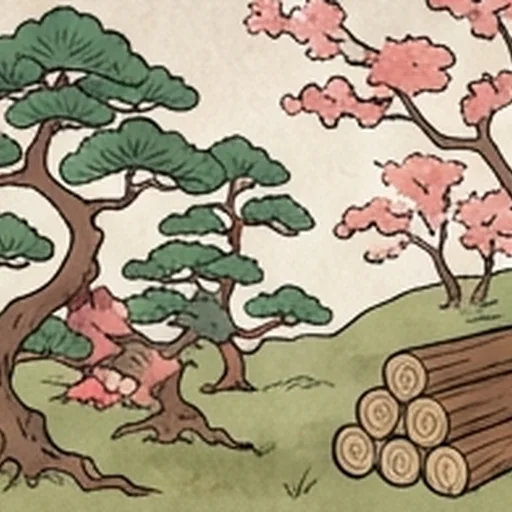
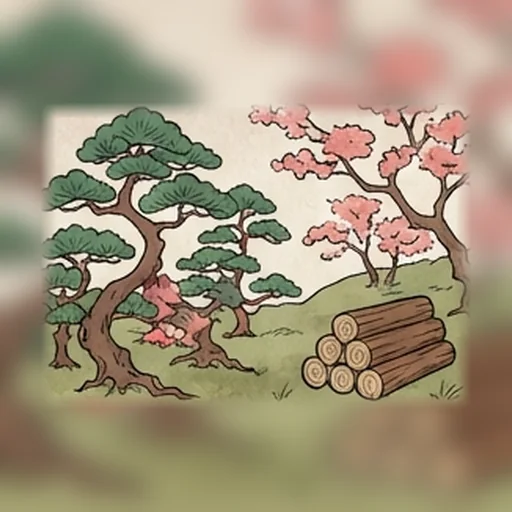
Big Mom and Wano lands zoomed out, and one number disc for the painted crews
The Big Mom and Wano lands now show the whole painting inside the hex,
over a soft copy of itself, instead of a crop that lost the trees and the
ore. The circles painted on the Big Mom lands are taken out. Big Mom,
Wano and the Navy share Wano's paper crest disc and brush-serif numbers.
Big Mom's ship sails right of the cake island; Wano has no ship header,
only its full scene behind the page.

Claude-Session: https://claude.ai/code/session_01Sfzcs5BDfJYScEUTSDvCQ5

diff --git a/apps/web/src/theme/boards/bigmom.tsx b/apps/web/src/theme/boards/bigmom.tsx
@@ -3,6 +3,7 @@ import type { Theme, ThemePieces } from '../clean.ts';
 import { resourceIcon } from './icons.tsx';
 import { WONDER_ICONS } from './iconSets.ts';
 import { artFor } from './art.ts';
+import { crestRest, crestToken } from './crest.tsx';
 import { BASE, CX, H, r1, seaTile, skin, W, type BaseType } from './kit.tsx';
 
 /**
@@ -270,31 +271,7 @@ function pieces(k: Ink): ThemePieces {
         </g>
       );
     },
-    // A macaron from above: a frilled pink shell, cream in the middle for the number.
-    token: ({ x, y, r }) => {
-      const n = 14;
-      const r0 = r * 0.9;
-      const pts = Array.from({ length: n }, (_, i) => {
-        const a = (2 * Math.PI * i) / n;
-        return [x + r0 * Math.cos(a), y + r0 * Math.sin(a)] as const;
-      });
-      const bump = r1(r0 * Math.sin(Math.PI / n) * 1.15);
-      const d =
-        `M${r1(pts[0]![0])},${r1(pts[0]![1])} ` +
-        pts
-          .map((_, i) => {
-            const [px, py] = pts[(i + 1) % n]!;
-            return `A${bump},${bump} 0 0 1 ${r1(px)},${r1(py)}`;
-          })
-          .join(' ') +
-        ' Z';
-      return (
-        <>
-          <path className="token-face" d={d} fill={k.shell} stroke={k.ink} strokeWidth={1.5} />
-          <circle cx={x} cy={y} r={r * 0.74} fill={k.icing} stroke={k.ink} strokeWidth={1} />
-        </>
-      );
-    },
+    token: crestToken,
   };
 }
 
@@ -311,9 +288,7 @@ function bigMomSkin(id: string, name: string, k: Ink): Theme {
     seaPattern: sea(k),
     paintings: artFor('bigmom'),
     rest: {
-      token: k.icing,
-      tokenText: k.ink,
-      tokenHot: '#b0174f',
+      ...crestRest,
       outline: k.ink,
       robber: k.silver,
       landStroke: k.ink,
@@ -322,7 +297,6 @@ function bigMomSkin(id: string, name: string, k: Ink): Theme {
       harborFace: k.icing,
       harborText: k.ink,
       pieceEffect: 'lift',
-      tokenFont: "'Chewy', 'Fredoka', system-ui, sans-serif",
       pieces: pieces(k),
       boardBackground: k.sea,
     },

diff --git a/apps/web/src/theme/boards/navy.tsx b/apps/web/src/theme/boards/navy.tsx
@@ -2,6 +2,7 @@ import type { ReactNode } from 'react';
 import type { Theme, ThemePieces } from '../clean.ts';
 import { ICONS, resourceIcon } from './icons.tsx';
 import { artFor } from './art.ts';
+import { crestRest, crestToken } from './crest.tsx';
 import { BASE, CX, CY, H, poly, seaTile, skin, W, type BaseType } from './kit.tsx';
 
 /**
@@ -197,30 +198,7 @@ function pieces(k: Ink): ThemePieces {
         </g>
       );
     },
-    // The Marines' colours: a blue rim, a gold rope ring, and white for the number.
-    token: ({ x, y, r }) => (
-      <>
-        <circle
-          className="token-face"
-          cx={x}
-          cy={y}
-          r={r}
-          fill={k.blue}
-          stroke={k.ink}
-          strokeWidth={1.6}
-        />
-        <circle
-          cx={x}
-          cy={y}
-          r={r * 0.87}
-          fill="none"
-          stroke={k.gold}
-          strokeWidth={1.6}
-          strokeDasharray="2 1.4"
-        />
-        <circle cx={x} cy={y} r={r * 0.76} fill={k.white} stroke={k.ink} strokeWidth={0.8} />
-      </>
-    ),
+    token: crestToken,
   };
 }
 
@@ -237,9 +215,7 @@ function navySkin(id: string, name: string, k: Ink): Theme {
     seaPattern: sea(k),
     paintings: artFor('navy'),
     rest: {
-      token: k.white,
-      tokenText: k.ink,
-      tokenHot: '#c0262d',
+      ...crestRest,
       outline: k.ink,
       robber: k.pirate,
       landStroke: k.ink,
@@ -248,7 +224,6 @@ function navySkin(id: string, name: string, k: Ink): Theme {
       harborFace: k.white,
       harborText: k.ink,
       pieceEffect: 'lift',
-      tokenFont: "'Oswald', system-ui, sans-serif",
       pieces: pieces(k),
       boardBackground: k.sea,
     },

diff --git a/apps/web/src/theme/boards/beasts.tsx b/apps/web/src/theme/boards/beasts.tsx
@@ -3,6 +3,7 @@ import type { Theme, ThemePieces } from '../clean.ts';
 import { resourceIcon } from './icons.tsx';
 import { DECO_ICONS } from './iconSets.ts';
 import { artFor } from './art.ts';
+import { crestRest, crestToken } from './crest.tsx';
 import { BASE, H, seaTile, skin, W, type BaseType } from './kit.tsx';
 
 /**
@@ -184,29 +185,7 @@ function pieces(k: Ink): ThemePieces {
         </g>
       );
     },
-    // A family crest: paper disc, ink ring, and a thin ring inside it.
-    token: ({ x, y, r }) => (
-      <>
-        <circle
-          className="token-face"
-          cx={x}
-          cy={y}
-          r={r}
-          fill={k.paper}
-          stroke={k.ink}
-          strokeWidth={2.2}
-        />
-        <circle
-          cx={x}
-          cy={y}
-          r={r * 0.84}
-          fill="none"
-          stroke={k.vermilion}
-          strokeOpacity={0.7}
-          strokeWidth={1}
-        />
-      </>
-    ),
+    token: crestToken,
   };
 }
 
@@ -223,9 +202,7 @@ function beastsSkin(id: string, name: string, k: Ink): Theme {
     seaPattern: sea(k),
     paintings: artFor('wano'),
     rest: {
-      token: k.paper,
-      tokenText: k.ink,
-      tokenHot: k.vermilion,
+      ...crestRest,
       outline: k.ink,
       robber: k.vermilion,
       landStroke: k.ink,
@@ -234,7 +211,6 @@ function beastsSkin(id: string, name: string, k: Ink): Theme {
       harborFace: k.paper,
       harborText: k.ink,
       pieceEffect: 'lift',
-      tokenFont: "'Shippori Mincho B1', 'Noto Serif JP', Georgia, serif",
       pieces: pieces(k),
       boardBackground: k.sea,
     },

diff --git a/apps/web/src/theme/boards/crest.tsx b/apps/web/src/theme/boards/crest.tsx
@@ -1,0 +1,44 @@
+import type { Theme, ThemePieces } from '../clean.ts';
+
+/**
+ * The Wano number disc, shared by the painted Grand Line crews (Beasts, Big Mom, the Navy): a
+ * paper disc with an ink ring and a thin vermilion ring inside, and a brush-serif number. Painted
+ * lands are busy, and this plain disc reads best on all of them.
+ */
+export const CREST = {
+  ink: '#1b2233',
+  paper: '#f3ead2',
+  vermilion: '#b8321e',
+  font: "'Shippori Mincho B1', 'Noto Serif JP', Georgia, serif",
+};
+
+export const crestToken: NonNullable<ThemePieces['token']> = ({ x, y, r }) => (
+  <>
+    <circle
+      className="token-face"
+      cx={x}
+      cy={y}
+      r={r}
+      fill={CREST.paper}
+      stroke={CREST.ink}
+      strokeWidth={2.2}
+    />
+    <circle
+      cx={x}
+      cy={y}
+      r={r * 0.84}
+      fill="none"
+      stroke={CREST.vermilion}
+      strokeOpacity={0.7}
+      strokeWidth={1}
+    />
+  </>
+);
+
+/** The board settings that go with the crest disc. */
+export const crestRest: Partial<Theme> = {
+  token: CREST.paper,
+  tokenText: CREST.ink,
+  tokenHot: CREST.vermilion,
+  tokenFont: CREST.font,
+};

diff --git a/apps/web/src/styles.css b/apps/web/src/styles.css
@@ -4541,6 +4541,10 @@ html[data-look='bigmom'],
 html[data-look='navy'] {
   --backdrop-wash: 42%;
 }
+:root[data-look='bigmom'] .look-art-painting img {
+  /* Sail to the right, clear of the cake island behind. */
+  translate: 22% 0;
+}
 html[data-look='wano'] {
   --backdrop-wash: 50%;
 }
